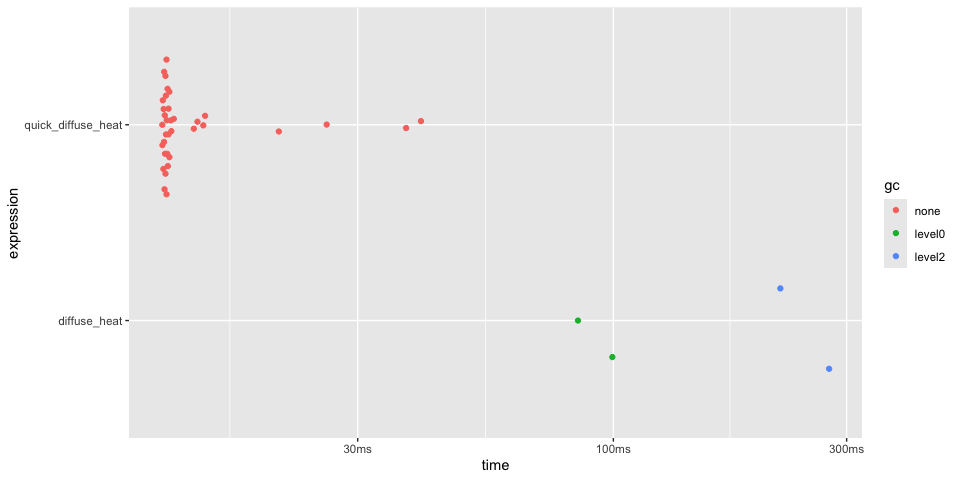
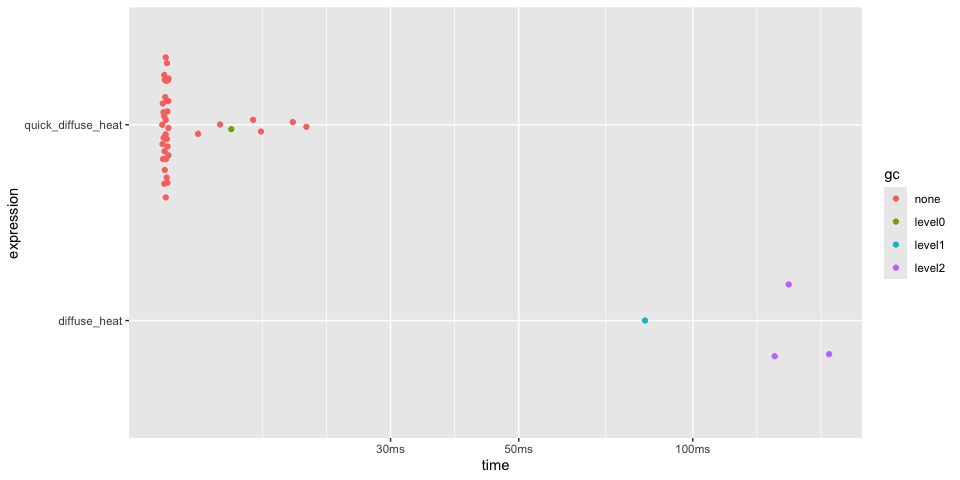
Avoid stack allocation for large locals

diff --git a/README.md b/README.md
@@ -140,9 +140,9 @@ timings
 #> # A tibble: 3 × 6
 #>   expression      min   median `itr/sec` mem_alloc `gc/sec`
 #>   <bch:expr> <bch:tm> <bch:tm>     <dbl> <bch:byt>    <dbl>
-#> 1 r          484.96ms 484.96ms      2.06     782KB     8.25
-#> 2 quickr       1.01ms   1.07ms    929.       782KB    17.7 
-#> 3 c            1.01ms   1.09ms    912.       782KB    16.9
+#> 1 r             493ms 496.46ms      2.01     782KB     2.01
+#> 2 quickr        934µs   1.07ms    930.       782KB    19.5 
+#> 3 c             956µs   1.08ms    924.       782KB    19.6
 plot(timings) + bench::scale_x_bench_time(base = NULL)
 ```
 
@@ -172,19 +172,21 @@ In the case of `convolve()`, `quick()` returns a function approximately
     #>  [21] <-           <<-          <=           =            ==          
     #>  [26] >            >=           |            ||           $           
     #>  [31] Arg          Conj         Fortran      Im           Mod         
-    #>  [36] Re           abs          acos         array        as.double   
-    #>  [41] asin         atan         backsolve    break        c           
-    #>  [46] cat          cbind        ceiling      character    chol        
-    #>  [51] chol2inv     cos          crossprod    declare      diag        
-    #>  [56] dim          double       drop         exp          floor       
-    #>  [61] for          forwardsolve if           ifelse       integer     
-    #>  [66] is.null      length       log          log10        logical     
-    #>  [71] matrix       max          min          ncol         next        
-    #>  [76] nrow         numeric      outer        print        prod        
-    #>  [81] qr.solve     raw          rbind        repeat       runif       
-    #>  [86] seq          seq_along    seq_len      sin          solve       
-    #>  [91] sqrt         stop         sum          svd          t           
-    #>  [96] tan          tcrossprod   which.max    which.min    while
+    #>  [36] Re           abs          acos         all          any         
+    #>  [41] array        as.double    as.integer   asin         atan        
+    #>  [46] backsolve    break        c            cat          cbind       
+    #>  [51] ceiling      character    chol         chol2inv     cos         
+    #>  [56] crossprod    declare      diag         dim          double      
+    #>  [61] drop         exp          floor        for          forwardsolve
+    #>  [66] if           ifelse       integer      is.null      length      
+    #>  [71] log          log10        logical      matrix       max         
+    #>  [76] min          ncol         next         nrow         numeric     
+    #>  [81] outer        print        prod         qr.solve     raw         
+    #>  [86] rbind        repeat       rev          runif        seq         
+    #>  [91] seq_along    seq_len      sin          solve        sqrt        
+    #>  [96] stop         sum          svd          t            tan         
+    #> [101] tanh         tcrossprod   trunc        which.max    which.min   
+    #> [106] while
 
 Many of these restrictions are expected to be relaxed as the project
 matures. However, quickr is intended primarily for high-performance
@@ -301,8 +303,8 @@ timings
 #> # A tibble: 2 × 6
 #>   expression         min   median `itr/sec` mem_alloc `gc/sec`
 #>   <bch:expr>    <bch:tm> <bch:tm>     <dbl> <bch:byt>    <dbl>
-#> 1 slow_viterbi   68.35µs  73.23µs    12893.    1.59KB     29.6
-#> 2 quick_viterbi   1.93µs   2.05µs   476397.        0B      0
+#> 1 slow_viterbi   62.81µs   75.6µs    12852.    1.59KB     28.2
+#> 2 quick_viterbi   5.45µs   6.19µs   158835.        0B      0
 plot(timings)
 ```
 
@@ -393,8 +395,8 @@ summary(timings, relative = TRUE)
 #> # A tibble: 2 × 6
 #>   expression           min median `itr/sec` mem_alloc `gc/sec`
 #>   <bch:expr>         <dbl>  <dbl>     <dbl>     <dbl>    <dbl>
-#> 1 diffuse_heat        7.08   13.0       1       4893.      Inf
-#> 2 quick_diffuse_heat  1       1        11.6        1       NaN
+#> 1 diffuse_heat        6.84   11.6       1       4893.     28.8
+#> 2 quick_diffuse_heat  1       1        10.2        1       1
 plot(timings)
 ```
 
@@ -440,9 +442,9 @@ timings
 #> # A tibble: 3 × 6
 #>   expression      min   median `itr/sec` mem_alloc `gc/sec`
 #>   <bch:expr> <bch:tm> <bch:tm>     <dbl> <bch:byt>    <dbl>
-#> 1 r           70.05ms  88.14ms      9.07  124.24MB    18.1 
-#> 2 rcpp         5.94ms   6.27ms    158.      4.46MB     0   
-#> 3 quickr       2.31ms   2.49ms    390.    781.35KB     3.98
+#> 1 r           78.19ms  85.82ms      9.02  124.24MB    23.5 
+#> 2 rcpp         6.21ms    6.3ms    156.      4.46MB     0   
+#> 3 quickr       2.37ms   2.49ms    394.    781.35KB     3.98
 
 timings$expression <- factor(names(timings$expression), rev(names(timings$expression)))
 plot(timings) + bench::scale_x_bench_time(base = NULL)
@@ -556,10 +558,10 @@ timings
 #> # A tibble: 4 × 6
 #>   expression         min   median `itr/sec` mem_alloc `gc/sec`
 #>   <bch:expr>    <bch:tm> <bch:tm>     <dbl> <bch:byt>    <dbl>
-#> 1 reference      12.14ms  12.58ms      79.0    29.6MB     84.0
-#> 2 RcppArmadillo   1.78ms   2.03ms     473.         0B      0  
-#> 3 plain R         1.65ms   2.02ms     487.     13.2MB    114. 
-#> 4 quickr        940.05µs   1.11ms     836.         0B      0
+#> 1 reference      12.26ms  12.85ms      78.2    29.6MB     73.8
+#> 2 RcppArmadillo   1.66ms   2.04ms     476.         0B      0  
+#> 3 plain R         1.59ms    1.9ms     516.     13.2MB    133. 
+#> 4 quickr        974.32µs   1.09ms     849.         0B      0
 plot(timings) + ggplot2::scale_y_discrete(limits = rev(c( 
   "reference", "RcppArmadillo", "plain R", "quickr"
 )))

diff --git a/tests/testthat/_snaps/example-viterbi.md b/tests/testthat/_snaps/example-viterbi.md
@@ -96,13 +96,18 @@
         ! locals
         integer(c_int) :: num_states
         integer(c_int) :: num_steps
-        real(c_double) :: trellis(states__len_, observations__len_)
-        integer(c_int) :: backpointer(states__len_, observations__len_)
+        real(c_double), allocatable :: trellis(:, :)
+        integer(c_int), allocatable :: backpointer(:, :)
         integer(c_int) :: step
         integer(c_int) :: current_state
-        real(c_double) :: probabilities(states__len_)
-        integer(c_int) :: path(observations__len_)
+        real(c_double), allocatable :: probabilities(:)
+        integer(c_int), allocatable :: path(:)
         ! manifest end
+      
+        allocate(trellis(states__len_, observations__len_))
+        allocate(backpointer(states__len_, observations__len_))
+        allocate(probabilities(states__len_))
+        allocate(path(observations__len_))
       
       
         num_states = size(states)
@@ -308,13 +313,18 @@
         integer(c_int), intent(out) :: out(observations__len_)
       
         ! locals
-        real(c_double) :: trellis(states__len_, observations__len_)
-        integer(c_int) :: backpointer(states__len_, observations__len_)
+        real(c_double), allocatable :: trellis(:, :)
+        integer(c_int), allocatable :: backpointer(:, :)
         integer(c_int) :: step
         integer(c_int) :: current_state
-        real(c_double) :: probabilities(states__len_)
-        integer(c_int) :: path(observations__len_)
+        real(c_double), allocatable :: probabilities(:)
+        integer(c_int), allocatable :: path(:)
         ! manifest end
+      
+        allocate(trellis(states__len_, observations__len_))
+        allocate(backpointer(states__len_, observations__len_))
+        allocate(probabilities(states__len_))
+        allocate(path(observations__len_))
       
       
         trellis = 0.0_c_double

diff --git a/tests/testthat/_snaps/dims2f.md b/tests/testthat/_snaps/dims2f.md
@@ -23,9 +23,12 @@
         integer(c_int), intent(out) :: out_
       
         ! locals
-        real(c_double) :: x((n * 2))
-        real(c_double) :: y((n - 1))
+        real(c_double), allocatable :: x(:)
+        real(c_double), allocatable :: y(:)
         ! manifest end
+      
+        allocate(x((n * 2)))
+        allocate(y((n - 1)))
       
       
         x = 0
@@ -89,8 +92,10 @@
         integer(c_int), intent(out) :: out_
       
         ! locals
-        real(c_double) :: out((int(n) / int(2) + mod(int(n), int(2))))
+        real(c_double), allocatable :: out(:)
         ! manifest end
+      
+        allocate(out((int(n) / int(2) + mod(int(n), int(2)))))
       
       
         out = 0
@@ -153,8 +158,10 @@
         integer(c_int), intent(out) :: out_(2)
       
         ! locals
-        real(c_double) :: out((n + 1), (int(n) / int(2) + 1))
+        real(c_double), allocatable :: out(:, :)
         ! manifest end
+      
+        allocate(out((n + 1), (int(n) / int(2) + 1)))
       
       
         out = 1.0_c_double

diff --git a/tests/testthat/_snaps/unary-intrinsics.md b/tests/testthat/_snaps/unary-intrinsics.md
@@ -2010,8 +2010,10 @@
         integer(c_int), intent(out) :: out(x__len_)
       
         ! locals
-        logical :: y(x__len_) ! logical
+        logical, allocatable :: y(:) ! logical
         ! manifest end
+      
+        allocate(y(x__len_))
       
       
         y = (.not. (x/=0))
